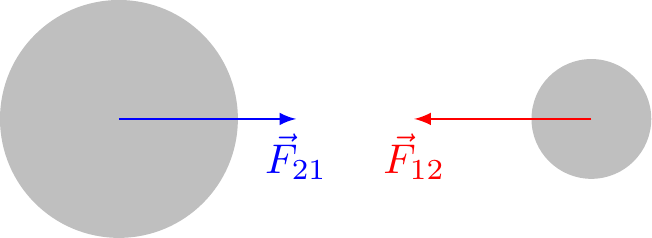
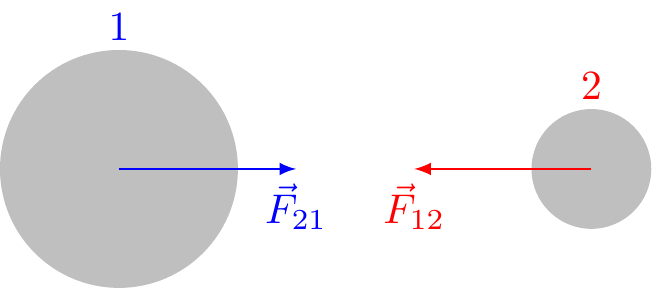
enumerate bodies

diff --git a/mechanics/actio-reactio/actio-reactio_inverted.tex b/mechanics/actio-reactio/actio-reactio_inverted.tex
@@ -16,6 +16,8 @@
 \begin{tikzpicture}[inverted,inverted]
   \draw[gray!50,fill] (-2,0) circle (1)   coordinate (c1);
   \draw[gray!50,fill] (+2,0) circle (0.5) coordinate (c2);
+  \node[blue,yshift=1.2cm] at (c1) {1};
+  \node[red, yshift=0.7cm] at (c2) {2};
   \draw[->,blue] (c1) -- ++(+1.5,0) node[below] {$\vec{F}_{21}$};
   \draw[->,red]  (c2) -- ++(-1.5,0) node[below] {$\vec{F}_{12}$};
 \end{tikzpicture}

diff --git a/mechanics/actio-reactio/actio-reactio.tex b/mechanics/actio-reactio/actio-reactio.tex
@@ -7,6 +7,8 @@
 \begin{tikzpicture}
   \draw[gray!50,fill] (-2,0) circle (1)   coordinate (c1);
   \draw[gray!50,fill] (+2,0) circle (0.5) coordinate (c2);
+  \node[blue,yshift=1.2cm] at (c1) {1};
+  \node[red, yshift=0.7cm] at (c2) {2};
   \draw[->,blue] (c1) -- ++(+1.5,0) node[below] {$\vec{F}_{21}$};
   \draw[->,red]  (c2) -- ++(-1.5,0) node[below] {$\vec{F}_{12}$};
 \end{tikzpicture}

diff --git a/mechanics.md b/mechanics.md
@@ -11,6 +11,8 @@
 \begin{tikzpicture}
   \draw[gray!50,fill] (-2,0) circle (1)   coordinate (c1);
   \draw[gray!50,fill] (+2,0) circle (0.5) coordinate (c2);
+  \node[blue,yshift=1.2cm] at (c1) {1};
+  \node[red, yshift=0.7cm] at (c2) {2};
   \draw[->,blue] (c1) -- ++(+1.5,0) node[below] {$\vec{F}_{21}$};
   \draw[->,red]  (c2) -- ++(-1.5,0) node[below] {$\vec{F}_{12}$};
 \end{tikzpicture}
@@ -833,6 +835,8 @@
 \begin{tikzpicture}[inverted,inverted]
   \draw[gray!50,fill] (-2,0) circle (1)   coordinate (c1);
   \draw[gray!50,fill] (+2,0) circle (0.5) coordinate (c2);
+  \node[blue,yshift=1.2cm] at (c1) {1};
+  \node[red, yshift=0.7cm] at (c2) {2};
   \draw[->,blue] (c1) -- ++(+1.5,0) node[below] {$\vec{F}_{21}$};
   \draw[->,red]  (c2) -- ++(-1.5,0) node[below] {$\vec{F}_{12}$};
 \end{tikzpicture}
